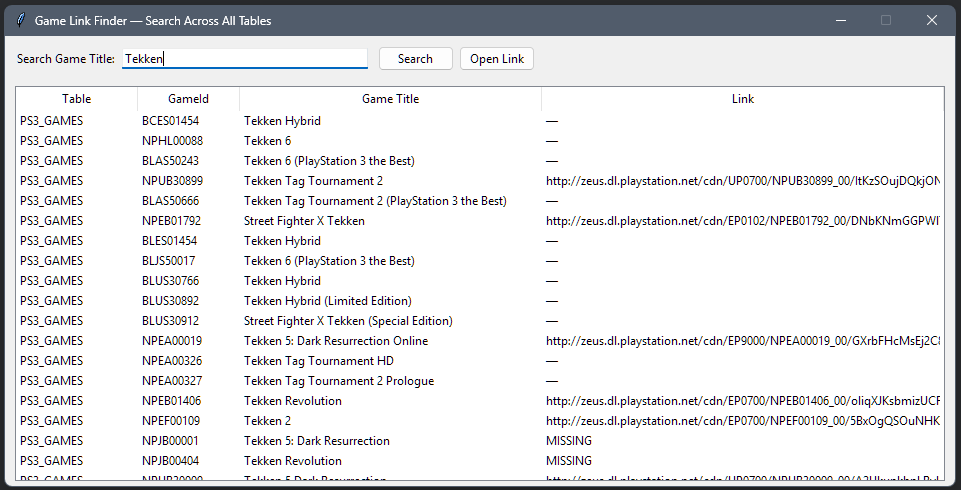
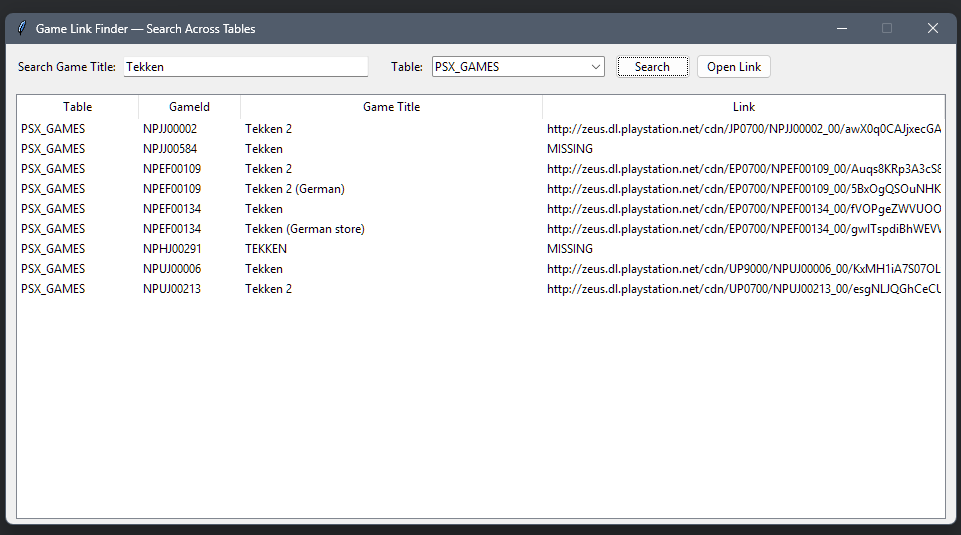
Automated commit

Changed region(s): [[0.0, 0.1837, 0.999, 1.0], [0.0, 0.0, 0.999, 0.1531], [0.3746, 0.1837, 0.437, 0.2143]]

diff --git a/psl_finder.py b/psl_finder.py
@@ -1,3 +1,147 @@
+# import os
+# import sys
+# import sqlite3
+# import tkinter as tk
+# from tkinter import ttk, messagebox
+# import webbrowser
+#
+# # === CONFIGURATION ===
+# # Correctly locate games.db inside PyInstaller bundle or source folder
+# if getattr(sys, 'frozen', False):
+#     BASE_DIR = sys._MEIPASS  # Folder where PyInstaller extracts the bundle
+# else:
+#     BASE_DIR = os.path.dirname(os.path.abspath(__file__))
+#
+# DB_PATH = os.path.join(BASE_DIR, "games.db")
+#
+#
+# # === DATABASE FUNCTIONS ===
+# def get_tables_with_columns(db_path, required_columns=("GameId", "GameTitle", "Link")):
+#     """Return all tables that contain the required columns."""
+#     try:
+#         conn = sqlite3.connect(db_path)
+#     except Exception as e:
+#         messagebox.showerror("Database Error", f"Could not open database:\n{e}")
+#         sys.exit(1)
+#
+#     cursor = conn.cursor()
+#     cursor.execute("SELECT name FROM sqlite_master WHERE type='table';")
+#     tables = [row[0] for row in cursor.fetchall()]
+#     valid_tables = []
+#     for table in tables:
+#         try:
+#             cursor.execute(f"PRAGMA table_info({table});")
+#             columns = [row[1] for row in cursor.fetchall()]
+#             if all(col in columns for col in required_columns):
+#                 valid_tables.append(table)
+#         except Exception:
+#             continue
+#     conn.close()
+#     return valid_tables
+#
+#
+# def search_games_across_tables(query, tables):
+#     """Search for GameTitle in all matching tables and return (table, gameid, title, link)."""
+#     conn = sqlite3.connect(DB_PATH)
+#     cursor = conn.cursor()
+#     results = []
+#     for table in tables:
+#         try:
+#             cursor.execute(f"""
+#                 SELECT ?, GameId, GameTitle, Link
+#                 FROM {table}
+#                 WHERE GameTitle LIKE ?
+#             """, (table, f"%{query}%"))
+#             results.extend(cursor.fetchall())
+#         except sqlite3.OperationalError:
+#             continue
+#     conn.close()
+#     return results
+#
+#
+# # === GUI CALLBACKS ===
+# def on_search():
+#     query = search_entry.get().strip()
+#     if not query:
+#         messagebox.showinfo("Info", "Please enter a search term.")
+#         return
+#
+#     results_list.delete(*results_list.get_children())
+#     results = search_games_across_tables(query, TABLES_WITH_LINKS)
+#
+#     if not results:
+#         messagebox.showinfo("No Results", "No matching games found.")
+#         return
+#
+#     for table, gameid, title, link in results:
+#         results_list.insert("", "end", values=(table, gameid, title, link if link else "—"))
+#
+#
+# def on_open_link(event=None):
+#     selected = results_list.focus()
+#     if not selected:
+#         messagebox.showwarning("Warning", "Select a game first.")
+#         return
+#     item = results_list.item(selected)
+#     link = item["values"][3]
+#     if link == "—" or not link:
+#         messagebox.showinfo("Info", "No link available for this game.")
+#         return
+#     webbrowser.open(link)
+#
+#
+# # === INITIAL SETUP ===
+# if not os.path.exists(DB_PATH):
+#     messagebox.showerror("Missing Database", f"games.db not found:\n{DB_PATH}")
+#     sys.exit(1)
+#
+# TABLES_WITH_LINKS = get_tables_with_columns(DB_PATH)
+# if not TABLES_WITH_LINKS:
+#     messagebox.showerror("Error", "No tables with GameId, GameTitle, and Link columns found.")
+#     sys.exit(1)
+#
+#
+# # === GUI SETUP ===
+# root = tk.Tk()
+# root.title("Game Link Finder — Search Across All Tables")
+# root.geometry("950x450")
+# root.resizable(False, False)
+#
+# # Search bar
+# frame_top = ttk.Frame(root, padding=10)
+# frame_top.pack(fill="x")
+#
+# search_label = ttk.Label(frame_top, text="Search Game Title:")
+# search_label.pack(side="left")
+#
+# search_entry = ttk.Entry(frame_top, width=40)
+# search_entry.pack(side="left", padx=5)
+# search_entry.bind("<Return>", lambda e: on_search())
+#
+# search_button = ttk.Button(frame_top, text="Search", command=on_search)
+# search_button.pack(side="left", padx=5)
+#
+# open_button = ttk.Button(frame_top, text="Open Link", command=on_open_link)
+# open_button.pack(side="left")
+#
+# # Results table
+# columns = ("Table", "GameId", "GameTitle", "Link")
+# results_list = ttk.Treeview(root, columns=columns, show="headings", height=15)
+# results_list.heading("Table", text="Table")
+# results_list.heading("GameId", text="GameId")
+# results_list.heading("GameTitle", text="Game Title")
+# results_list.heading("Link", text="Link")
+# results_list.column("Table", width=120)
+# results_list.column("GameId", width=100)
+# results_list.column("GameTitle", width=300)
+# results_list.column("Link", width=400)
+# results_list.pack(fill="both", expand=True, padx=10, pady=5)
+#
+# # Double-click to open link
+# results_list.bind("<Double-1>", on_open_link)
+#
+# # Run app
+# root.mainloop()
 import os
 import sys
 import sqlite3
@@ -59,6 +203,24 @@ def search_games_across_tables(query, tables):
     return results
 
 
+def search_games_in_table(query, table):
+    """Search only in a specific table."""
+    conn = sqlite3.connect(DB_PATH)
+    cursor = conn.cursor()
+    results = []
+    try:
+        cursor.execute(f"""
+            SELECT ?, GameId, GameTitle, Link
+            FROM {table}
+            WHERE GameTitle LIKE ?
+        """, (table, f"%{query}%"))
+        results.extend(cursor.fetchall())
+    except sqlite3.OperationalError:
+        pass
+    conn.close()
+    return results
+
+
 # === GUI CALLBACKS ===
 def on_search():
     query = search_entry.get().strip()
@@ -66,8 +228,13 @@ def on_search():
         messagebox.showinfo("Info", "Please enter a search term.")
         return
 
+    selected_table = table_filter.get()
     results_list.delete(*results_list.get_children())
-    results = search_games_across_tables(query, TABLES_WITH_LINKS)
+
+    if selected_table == "All Tables":
+        results = search_games_across_tables(query, TABLES_WITH_LINKS)
+    else:
+        results = search_games_in_table(query, selected_table)
 
     if not results:
         messagebox.showinfo("No Results", "No matching games found.")
@@ -103,11 +270,11 @@ if not TABLES_WITH_LINKS:
 
 # === GUI SETUP ===
 root = tk.Tk()
-root.title("Game Link Finder — Search Across All Tables")
-root.geometry("950x450")
+root.title("Game Link Finder — Search Across Tables")
+root.geometry("950x480")
 root.resizable(False, False)
 
-# Search bar
+# --- Top frame (Search bar + table filter) ---
 frame_top = ttk.Frame(root, padding=10)
 frame_top.pack(fill="x")
 
@@ -118,13 +285,21 @@ search_entry = ttk.Entry(frame_top, width=40)
 search_entry.pack(side="left", padx=5)
 search_entry.bind("<Return>", lambda e: on_search())
 
+# Dropdown menu to filter tables
+table_filter_label = ttk.Label(frame_top, text="Table:")
+table_filter_label.pack(side="left", padx=(15, 2))
+
+table_filter = ttk.Combobox(frame_top, values=["All Tables"] + TABLES_WITH_LINKS, state="readonly", width=25)
+table_filter.set("All Tables")
+table_filter.pack(side="left", padx=5)
+
 search_button = ttk.Button(frame_top, text="Search", command=on_search)
 search_button.pack(side="left", padx=5)
 
 open_button = ttk.Button(frame_top, text="Open Link", command=on_open_link)
 open_button.pack(side="left")
 
-# Results table
+# --- Results table ---
 columns = ("Table", "GameId", "GameTitle", "Link")
 results_list = ttk.Treeview(root, columns=columns, show="headings", height=15)
 results_list.heading("Table", text="Table")
@@ -140,5 +315,5 @@ results_list.pack(fill="both", expand=True, padx=10, pady=5)
 # Double-click to open link
 results_list.bind("<Double-1>", on_open_link)
 
-# Run app
+# --- Run app ---
 root.mainloop()

diff --git a/README.md b/README.md
@@ -11,8 +11,11 @@ Use DB Browser to CRUD the database: https://sqlitebrowser.org/
 
 Features:
 - Gui with search option and button to open the link (download).
+- Update: filter and search on all tables or on a specific table instead of only on all tables.
 
 ![pslf.png](images/pslf.png)
+
+![pslf2.png](images/pslf2.png)
 
 
 ![github.png](images/github.png)            
